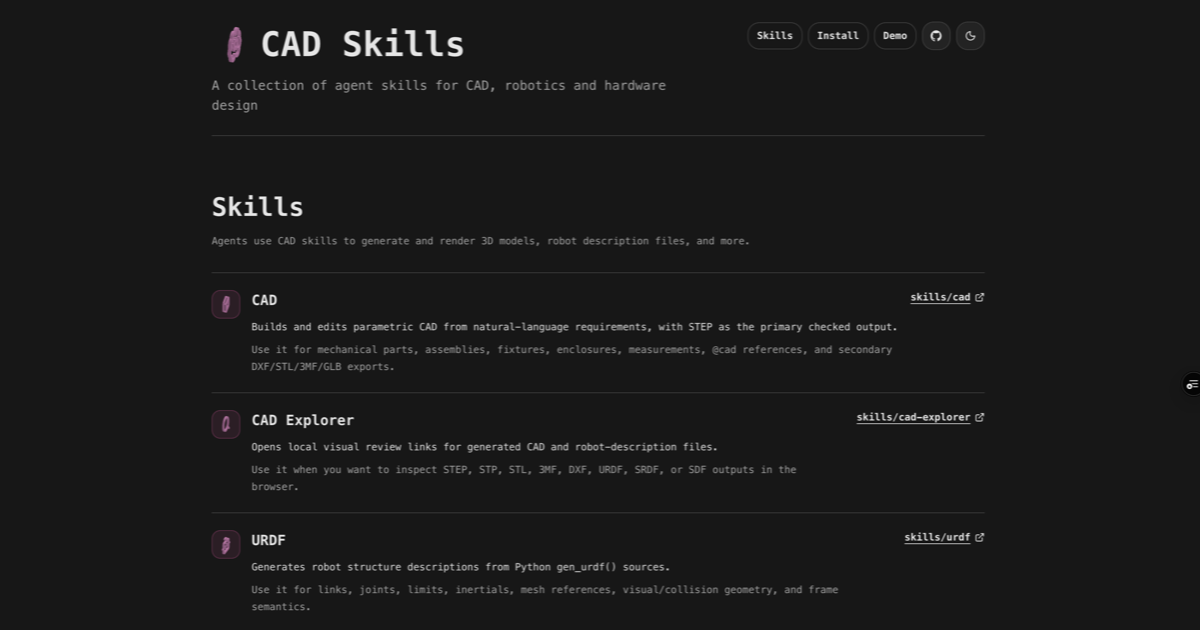
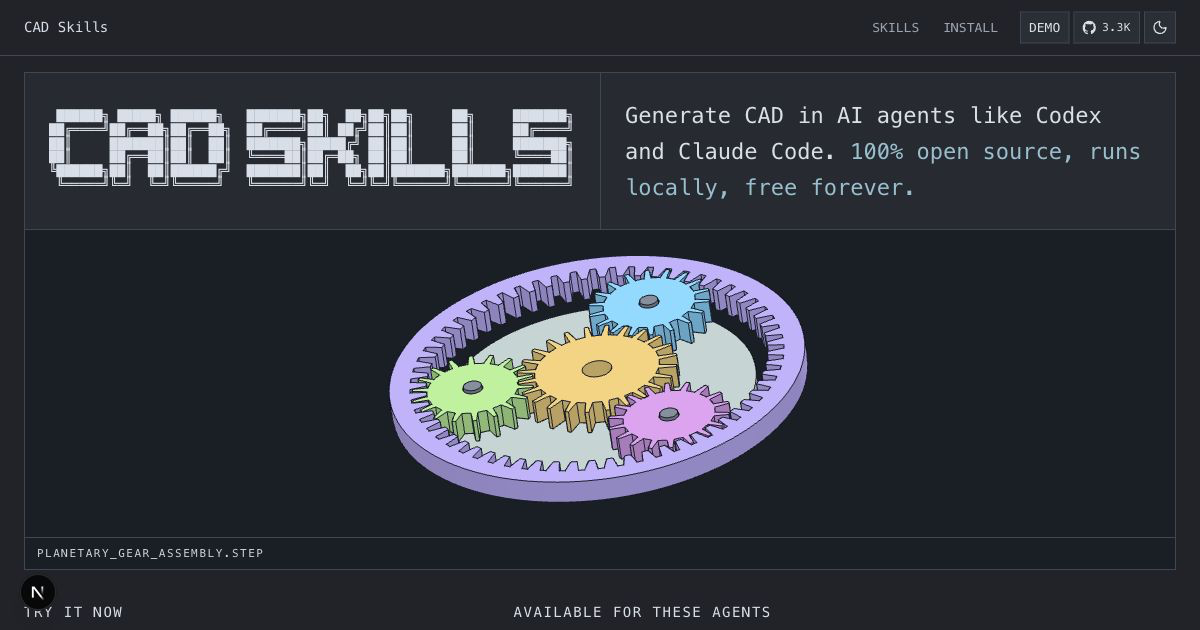
Fix docs hero gear assets
Serve the planetary gear GLB and STEP sidecar from docs public assets so production deployments no longer depend on repo-root models files. Redirect the legacy hero API routes to those static assets, point the homepage renderer at the public URLs, and refresh the social preview with the new gear hero screenshot.

diff --git a/docs/public/hero/planetary_gear_assembly.step.js b/docs/public/hero/planetary_gear_assembly.step.js
@@ -1,0 +1,204 @@
+const Z_AXIS = [0, 0, 1];
+const ORIGIN = [0, 0, 0];
+const PLANETS = ["planet1", "planet2", "planet3"];
+const PINS = ["pin1", "pin2", "pin3"];
+const SUN_TEETH = 24;
+const PLANET_TEETH = 18;
+const RING_TEETH = 60;
+// Fixed-ring planetary kinematics: carrier follows the sun by Ns / (Ns + Nr).
+const CARRIER_RATIO_FIXED_RING = SUN_TEETH / (SUN_TEETH + RING_TEETH);
+// 3.5 sun revolutions returns the carrier to 360 deg and each gear to an equivalent tooth phase.
+const FULL_MESH_CYCLE_DEG = 1260;
+
+let orbitGuide = null;
+
+function finite(value, fallback = 0) {
+  const numericValue = Number(value);
+  return Number.isFinite(numericValue) ? numericValue : fallback;
+}
+
+function radialUnit(feature) {
+  const center = Array.isArray(feature?.center) ? feature.center : ORIGIN;
+  const length = Math.hypot(center[0] || 0, center[1] || 0);
+  if (length <= 1e-6) {
+    return [1, 0, 0];
+  }
+  return [(center[0] || 0) / length, (center[1] || 0) / length, 0];
+}
+
+function scaled(vector, scale) {
+  return vector.map((value) => value * scale);
+}
+
+function createOrbitGuide(THREE) {
+  const radius = 42;
+  const points = [];
+  for (let index = 0; index < 144; index += 1) {
+    const angle = (index / 144) * Math.PI * 2;
+    points.push(new THREE.Vector3(Math.cos(angle) * radius, Math.sin(angle) * radius, 4));
+  }
+  const geometry = new THREE.BufferGeometry().setFromPoints(points);
+  const material = new THREE.LineBasicMaterial({
+    color: 0x94a3b8,
+    transparent: true,
+    opacity: 0.34,
+    depthWrite: false
+  });
+  const line = new THREE.LineLoop(geometry, material);
+  line.name = "planetary-gear-orbit-guide";
+  line.renderOrder = 30;
+  return line;
+}
+
+const planetaryGearAssemblyStep = {
+  manifest: {
+    schemaVersion: 1,
+    units: {
+      length: "mm",
+      angle: "deg",
+      time: "s"
+    },
+    features: {
+      carrier: { ref: "#o1.1.1", label: "Carrier plate", description: "The plate that carries planet pins around the sun axis." },
+      ring: { ref: "#o1.2.1", label: "Ring gear", description: "Stationary internal gear, visually faded or hidden by controls." },
+      sun: { ref: "#o1.3.1", label: "Sun gear", description: "Central driven gear." },
+      planet1: { ref: "#o1.4.1", label: "Planet gear 1" },
+      pin1: { ref: "#o1.5.1", label: "Planet pin 1" },
+      planet2: { ref: "#o1.6.1", label: "Planet gear 2" },
+      pin2: { ref: "#o1.7.1", label: "Planet pin 2" },
+      planet3: { ref: "#o1.8.1", label: "Planet gear 3" },
+      pin3: { ref: "#o1.9.1", label: "Planet pin 3" }
+    },
+    parameters: {
+      drive: { type: "number", label: "Drive", description: "Sun gear input angle across one closed mesh cycle.", default: 0, min: 0, max: FULL_MESH_CYCLE_DEG, step: 1, unit: "deg" },
+      explode: { type: "number", label: "Explode", description: "Radially separates meshing features for inspection.", default: 0, min: 0, max: 1, step: 0.01 },
+      ringVisible: { type: "boolean", label: "Ring gear", default: true },
+      orbitGuides: { type: "boolean", label: "Orbit guide", default: false },
+      highlightMeshing: { type: "boolean", label: "Mesh highlight", default: false },
+      viewMode: {
+        type: "select",
+        label: "View",
+        default: "mesh",
+        options: [
+          { value: "mesh", label: "Mesh study" },
+          { value: "cutaway", label: "Cutaway" },
+          { value: "carrier", label: "Carrier focus" }
+        ]
+      }
+    },
+    animations: {
+      meshCycle: {
+        label: "Mesh cycle",
+        duration: 6,
+        loop: true,
+        update({ cycle, set }) {
+          set("drive", (cycle % 1) * FULL_MESH_CYCLE_DEG);
+        }
+      },
+      inspectExplode: {
+        label: "Explode inspect",
+        duration: 5,
+        loop: true,
+        update({ progress, set }) {
+          set("drive", progress * FULL_MESH_CYCLE_DEG);
+          set("explode", Math.sin(progress * Math.PI));
+        }
+      }
+    }
+  },
+
+  setup({ THREE, modelGroup, cleanup }) {
+    if (!THREE || !modelGroup) {
+      return;
+    }
+    orbitGuide = createOrbitGuide(THREE);
+    modelGroup.add(orbitGuide);
+    cleanup(() => {
+      modelGroup.remove(orbitGuide);
+      orbitGuide.geometry?.dispose?.();
+      orbitGuide.material?.dispose?.();
+      orbitGuide = null;
+    });
+  },
+
+  update({ params, features, effects, time }) {
+    const drive = finite(params.drive);
+    const explode = finite(params.explode);
+    const sunAngle = drive;
+    const carrierAngle = sunAngle * CARRIER_RATIO_FIXED_RING;
+    const planetSpinRelativeToCarrier = -(SUN_TEETH / PLANET_TEETH) * (sunAngle - carrierAngle);
+    const lift = explode * 7;
+    const cutaway = params.viewMode === "cutaway";
+    const carrierFocus = params.viewMode === "carrier";
+    const highlight = params.highlightMeshing === true &&
+      (!time.playing || (time.progress > 0.45 && time.progress < 0.6));
+
+    if (orbitGuide) {
+      orbitGuide.visible = params.orbitGuides !== false;
+      orbitGuide.rotation.z = (carrierAngle * Math.PI) / 180;
+    }
+
+    effects.visible("ring", params.ringVisible !== false);
+    effects.style("ring", {
+      opacity: cutaway ? 0.22 : 1,
+      edgeOpacity: cutaway ? 0.38 : 1
+    });
+    effects.style("sun", {
+      emissive: highlight ? "#7c2d12" : "",
+      emissiveIntensity: highlight ? 0.32 : 0
+    });
+    effects.style(PLANETS, {
+      emissive: highlight ? "#075985" : "",
+      emissiveIntensity: highlight ? 0.22 : 0
+    });
+    effects.style(PINS, {
+      opacity: 1
+    });
+    effects.style("carrier", {
+      opacity: 1,
+      emissive: carrierFocus ? "#14532d" : "",
+      emissiveIntensity: carrierFocus ? 0.2 : 0
+    });
+
+    if (highlight) {
+      effects.highlight(["sun", ...PLANETS], true);
+    }
+
+    effects.transform("sun", {
+      transforms: [
+        { rotate: { axis: Z_AXIS, origin: features.sun.center, angleDeg: sunAngle } },
+        { translate: [0, 0, lift] }
+      ]
+    });
+    effects.transform("carrier", {
+      transforms: [
+        { rotate: { axis: Z_AXIS, origin: ORIGIN, angleDeg: carrierAngle } },
+        { translate: [0, 0, -explode * 4] }
+      ]
+    });
+
+    for (const planetId of PLANETS) {
+      const radial = radialUnit(features[planetId]);
+      effects.transform(planetId, {
+        transforms: [
+          { rotate: { axis: Z_AXIS, origin: features[planetId].center, angleDeg: planetSpinRelativeToCarrier } },
+          { translate: scaled(radial, explode * 16) },
+          { rotate: { axis: Z_AXIS, origin: ORIGIN, angleDeg: carrierAngle } }
+        ]
+      });
+    }
+
+    for (const pinId of PINS) {
+      const radial = radialUnit(features[pinId]);
+      effects.transform(pinId, {
+        transforms: [
+          { translate: scaled(radial, explode * 16) },
+          { rotate: { axis: Z_AXIS, origin: ORIGIN, angleDeg: carrierAngle } },
+          { translate: [0, 0, -explode * 4] }
+        ]
+      });
+    }
+  }
+};
+
+export default planetaryGearAssemblyStep;

diff --git a/docs/src/app/api/hero-step/route.ts b/docs/src/app/api/hero-step/route.ts
@@ -1,68 +1,8 @@
-import { readFile, stat } from "node:fs/promises";
-import path from "node:path";
 import { NextResponse } from "next/server";
 
-export const dynamic = "force-dynamic";
-export const revalidate = 0;
-
-const workspaceRoot = path.resolve(process.cwd(), "..");
-const heroStepPath = path.join(
-  workspaceRoot,
-  "models/fun/planetary_gear_assembly.step"
-);
-const heroStepGlbPath = path.join(
-  workspaceRoot,
-  "models/fun/.planetary_gear_assembly.step.glb"
-);
-
-export async function GET() {
-  try {
-    const [sourceStats, glbStats] = await Promise.all([
-      stat(heroStepPath),
-      stat(heroStepGlbPath),
-    ]);
-
-    if (sourceStats.mtimeMs > glbStats.mtimeMs + 1000) {
-      return NextResponse.json(
-        {
-          error: "STEP preview cache is stale",
-          detail:
-            "Regenerate the adjacent hidden GLB sidecar for models/fun/planetary_gear_assembly.step.",
-          source: path.relative(workspaceRoot, heroStepPath),
-        },
-        {
-          headers: {
-            "cache-control": "no-store, max-age=0",
-            "x-step-glb-mtime": String(Math.round(glbStats.mtimeMs)),
-            "x-step-source-mtime": String(Math.round(sourceStats.mtimeMs)),
-          },
-          status: 409,
-        }
-      );
-    }
-
-    const body = await readFile(heroStepGlbPath);
-
-    return new NextResponse(body, {
-      headers: {
-        "cache-control": "no-store, max-age=0",
-        "content-type": "model/gltf-binary",
-        "x-step-glb-mtime": String(Math.round(glbStats.mtimeMs)),
-        "x-step-source-mtime": String(Math.round(sourceStats.mtimeMs)),
-        "x-step-source": path.relative(workspaceRoot, heroStepPath),
-      },
-    });
-  } catch (error) {
-    const message =
-      error instanceof Error ? error.message : "Unable to load STEP preview";
-
-    return NextResponse.json(
-      {
-        error: "STEP preview cache is missing",
-        detail: message,
-        source: path.relative(workspaceRoot, heroStepPath),
-      },
-      { status: 404 }
-    );
-  }
+export function GET(request: Request) {
+  return NextResponse.redirect(
+    new URL("/hero/planetary_gear_assembly.step.glb", request.url),
+    307
+  );
 }

diff --git a/docs/src/app/api/hero-step-module/route.ts b/docs/src/app/api/hero-step-module/route.ts
@@ -1,50 +1,8 @@
-import { readFile, stat } from "node:fs/promises";
-import path from "node:path";
 import { NextResponse } from "next/server";
 
-export const dynamic = "force-dynamic";
-export const revalidate = 0;
-
-const workspaceRoot = path.resolve(process.cwd(), "..");
-const heroStepPath = path.join(
-  workspaceRoot,
-  "models/fun/planetary_gear_assembly.step"
-);
-const heroStepModulePath = path.join(
-  workspaceRoot,
-  "models/fun/.planetary_gear_assembly.step.js"
-);
-
-export async function GET() {
-  try {
-    const [sourceStats, moduleStats, body] = await Promise.all([
-      stat(heroStepPath),
-      stat(heroStepModulePath),
-      readFile(heroStepModulePath, "utf8"),
-    ]);
-
-    return new NextResponse(body, {
-      headers: {
-        "cache-control": "no-store, max-age=0",
-        "content-type": "application/javascript; charset=utf-8",
-        "x-step-module-mtime": String(Math.round(moduleStats.mtimeMs)),
-        "x-step-source-mtime": String(Math.round(sourceStats.mtimeMs)),
-        "x-step-source": path.relative(workspaceRoot, heroStepPath),
-      },
-    });
-  } catch (error) {
-    const message =
-      error instanceof Error
-        ? error.message
-        : "Unable to load STEP preview module";
-
-    return NextResponse.json(
-      {
-        error: "STEP preview module is missing",
-        detail: message,
-        source: path.relative(workspaceRoot, heroStepModulePath),
-      },
-      { status: 404 }
-    );
-  }
+export function GET(request: Request) {
+  return NextResponse.redirect(
+    new URL("/hero/planetary_gear_assembly.step.js", request.url),
+    307
+  );
 }

diff --git a/docs/src/components/hero-step-render.tsx b/docs/src/components/hero-step-render.tsx
@@ -15,8 +15,8 @@ import {
 import { cloneThemeSettings } from "@render-viewer/common/themeSettings.js";
 import { buildMeshDataFromGlbBuffer } from "@render-viewer/lib/render/glbMeshData.js";
 
-const HERO_STEP_URL = "/api/hero-step";
-const HERO_STEP_MODULE_URL = "/api/hero-step-module";
+const HERO_STEP_URL = "/hero/planetary_gear_assembly.step.glb";
+const HERO_STEP_MODULE_URL = "/hero/planetary_gear_assembly.step.js";
 const HERO_STEP_CAD_PATH = "models/fun/planetary_gear_assembly.step";
 const HERO_STEP_DEMO_URL =
   "https://demo.cadskills.xyz/?file=fun%2Fplanetary_gear_assembly.step";